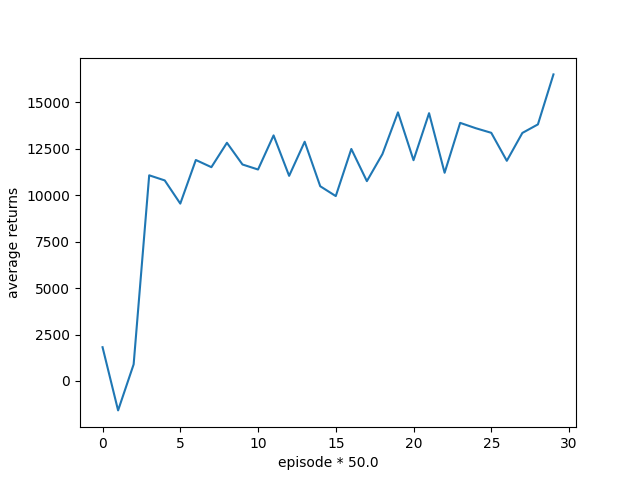
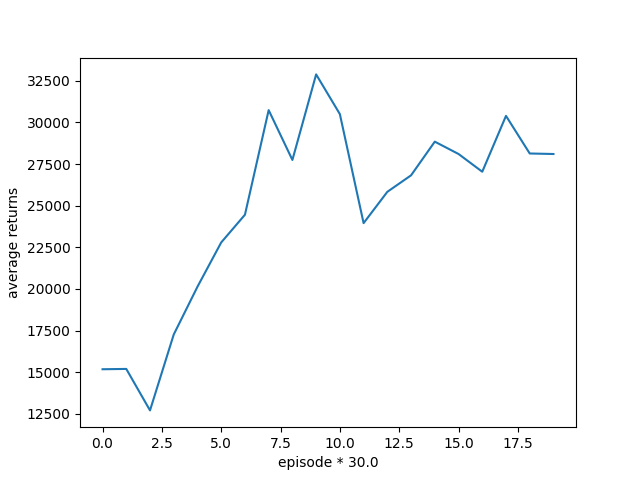
evaluate png

diff --git a/runner.py b/runner.py
@@ -140,11 +140,11 @@ class Runner:
             for time_step in range(self.args.evaluate_episode_len):
                 actions = []
 
-                writer_station.add_scalars('station_record', {'working_num': self.env.world.working_num,
-                                                              'waiting_num': self.env.world.wait.still_wait,
-                                                              'coming_evs':
-                                                                  len(self.env.world.wait.wait_EVs) - coming_evs
-                                                              }, time_step)
+                # writer_station.add_scalars('station_record', {'working_num': self.env.world.working_num,
+                #                                               'waiting_num': self.env.world.wait.still_wait,
+                #                                               'coming_evs':
+                #                                                   len(self.env.world.wait.wait_EVs) - coming_evs
+                #                                               }, time_step)
                 # for i, pile in enumerate(self.env.piles):
                 #     if pile.connected:
                 #         writer_piles[i].add_scalars('pile_%d' % (i + 1), {
@@ -157,19 +157,19 @@ class Runner:
                         action = agent.select_action(s[agent_id], 0, 0)
                         actions.append(action)
 
-                for i, pile in enumerate(self.env.piles):
-                    if pile.connected:
-                        writer_piles.add_scalars('piles', {
-                            'pile_%d_cur_b' % i: pile.state.cur_b,
-                            'pile_%d_tar_b' % i: pile.state.tar_b
-                        }, time_step)
+                # for i, pile in enumerate(self.env.piles):
+                #     if pile.connected:
+                #         writer_piles.add_scalars('piles', {
+                #             'pile_%d_cur_b' % i: pile.state.cur_b,
+                #             'pile_%d_tar_b' % i: pile.state.tar_b
+                #         }, time_step)
                 self.env.world_step(actions)
-                for i, pile in enumerate(self.env.piles):
-                    if pile.connected:
-                        writer_piles.add_scalars('piles', {
-                            'pile_%d_action' % i: pile.real_action,
-                            'pile_%d_cur_b_new' % i: pile.state.cur_b
-                        }, time_step)
+                # for i, pile in enumerate(self.env.piles):
+                #     if pile.connected:
+                #         writer_piles.add_scalars('piles', {
+                #             'pile_%d_action' % i: pile.real_action,
+                #             'pile_%d_cur_b_new' % i: pile.state.cur_b
+                #         }, time_step)
                 s_next, r, done, info = self.env.step(actions)
 
                 miss_info += info['energy_miss']
@@ -180,15 +180,15 @@ class Runner:
                 rewards += r[0]
                 s = s_next
 
-                writer_station.add_scalars('station_record', {'rewards': rewards,
-                                                              'extra_deal': self.env.world.extra_deal,
-                                                              'es_action': self.env.world.es.real_action,
-                                                              'es_capacity': self.env.es.state.cur_c,
-                                                              'piles_power_sum': self.env.world.piles_power_sum,
-                                                              'pv_power': self.env.world.pv.power[
-                                                                  (self.env.world.cur_t - 1) % len(
-                                                                      self.env.world.pv.power)]
-                                                              }, time_step)
+                # writer_station.add_scalars('station_record', {'rewards': rewards,
+                #                                               'extra_deal': self.env.world.extra_deal,
+                #                                               'es_action': self.env.world.es.real_action,
+                #                                               'es_capacity': self.env.es.state.cur_c,
+                #                                               'piles_power_sum': self.env.world.piles_power_sum,
+                #                                               'pv_power': self.env.world.pv.power[
+                #                                                   (self.env.world.cur_t - 1) % len(
+                #                                                       self.env.world.pv.power)]
+                #                                               }, time_step)
 
             # for i in range(len(miss_info)):
             #     writer_info.add_scalars('left_ev', {'get': get_info[i],
@@ -201,4 +201,5 @@ class Runner:
             returns.append(rewards)
             print(np.mean(miss_info).round(1))
             print(np.mean(save_time_info).round(2))
+            print(self.env.world.es.state.cur_c)
         return sum(returns) / self.args.evaluate_episodes

diff --git a/common/arguments.py b/common/arguments.py
@@ -39,7 +39,7 @@ def get_args():
     parser.add_argument("--evaluate-episodes", type=int, default=1, help="number of episodes for evaluating")
     parser.add_argument("--evaluate-episode-len", type=int, default=cycle, help="length of episodes for evaluating")
     parser.add_argument("--evaluate", type=bool, default=False, help="whether to evaluate the model")
-    parser.add_argument("--evaluate-rate", type=int, default=cycle * 60, help="how often to evaluate model")
+    parser.add_argument("--evaluate-rate", type=int, default=cycle * 30, help="how often to evaluate model")
     args = parser.parse_args()
 
     return args
